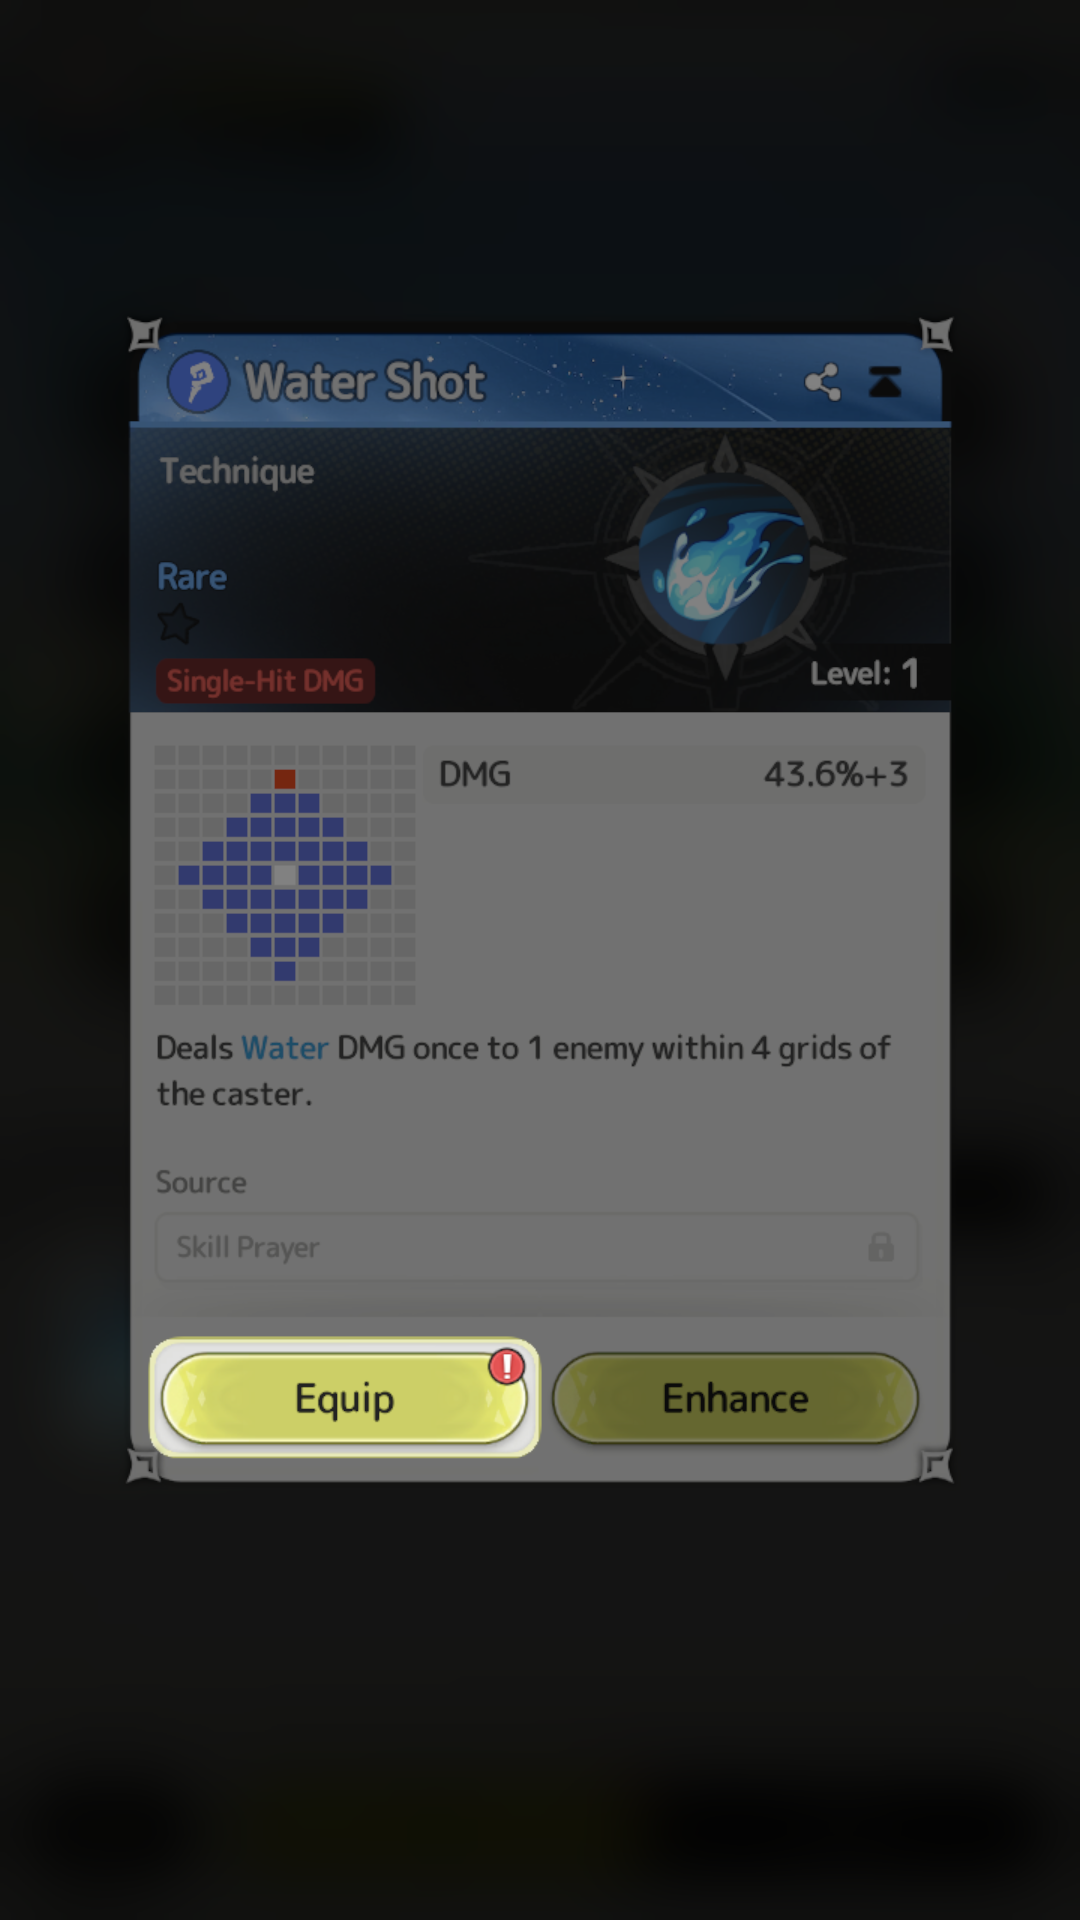
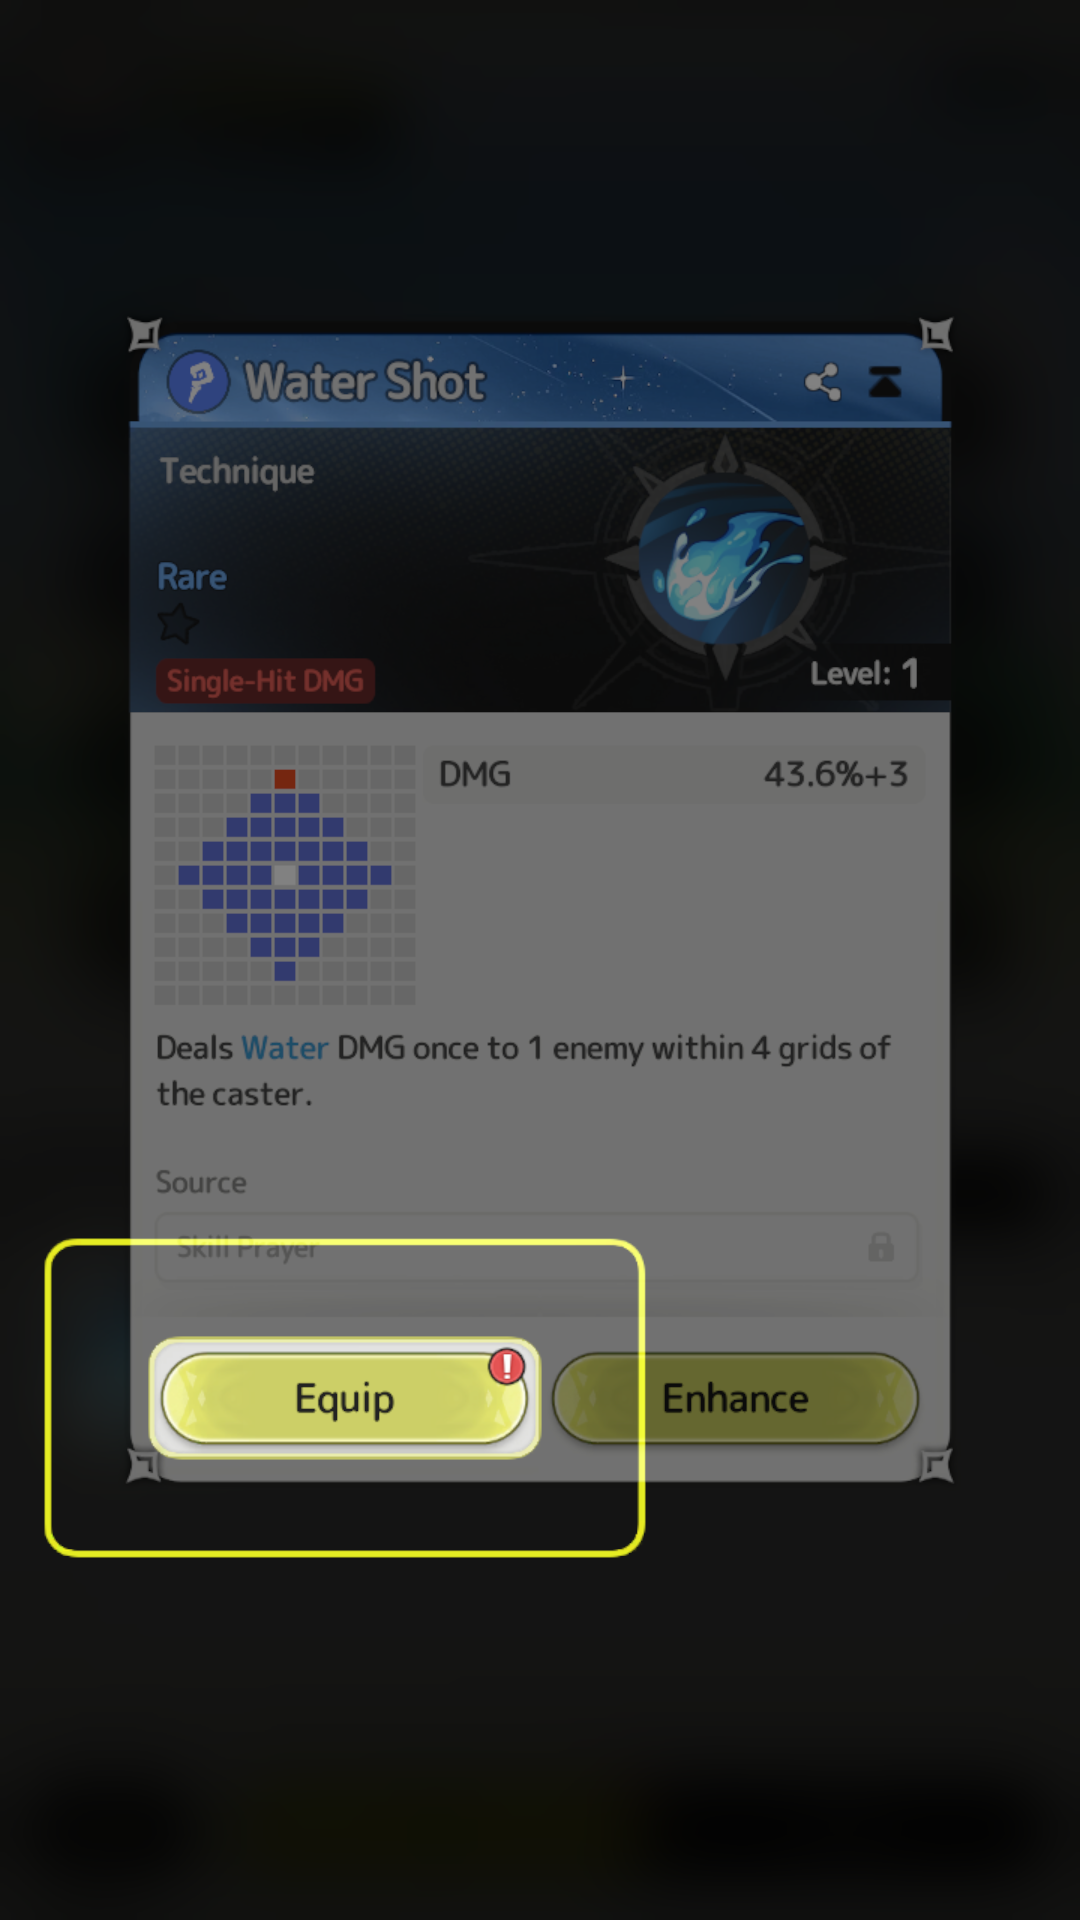
Before: Added Pictures.TECHNIQUE_HEADER_ICONS
BotMaker-Origin: safety

Changed region(s): [[0.0306, 0.625, 0.6111, 0.8125]]

diff --git a/src/main/java/com/swordxstaff/plugins/com_github_botmakerdev/botmaker_sdk/Screens.java b/src/main/java/com/swordxstaff/plugins/com_github_botmakerdev/botmaker_sdk/Screens.java
@@ -777,10 +777,13 @@ public final class Screens {
     public static final Skills SKILLS = new Skills();
 
     public static final class TechniqueDetails extends Screen {
+        public final Button techniqueEquip = Button.of(Pictures.TECHNIQUE_EQUIP);
+
         @Override
         public Setup setup() {
             return Setup
                     .named("Technique details")
+                    .markers(List.of(Pictures.TECHNIQUE_PIN))
                     .takes(Duration.ofMillis(5500L))
                     .shot("screens/TECHNIQUE_DETAILS.png")
                     .from(Screens.SKILLS.skillsWaterShot);

diff --git a/src/main/java/com/swordxstaff/plugins/com_github_botmakerdev/botmaker_sdk/Pictures.java b/src/main/java/com/swordxstaff/plugins/com_github_botmakerdev/botmaker_sdk/Pictures.java
@@ -181,6 +181,10 @@ public final class Pictures {
             .at(new Rect(701, 1032, 34, 36));
     public static final ImageTemplate SKILLS_WATER_SHOT = new ImageTemplate("images/skills_water_shot.png")
             .at(new Rect(98, 1296, 116, 104));
+    public static final ImageTemplate TECHNIQUE_PIN = new ImageTemplate("images/technique_pin.png")
+            .at(new Rect(870, 366, 30, 32));
+    public static final ImageTemplate TECHNIQUE_EQUIP = new ImageTemplate("images/technique_equip.png")
+            .at(new Rect(200, 1372, 290, 56));
     private Pictures() {
     }
 }
